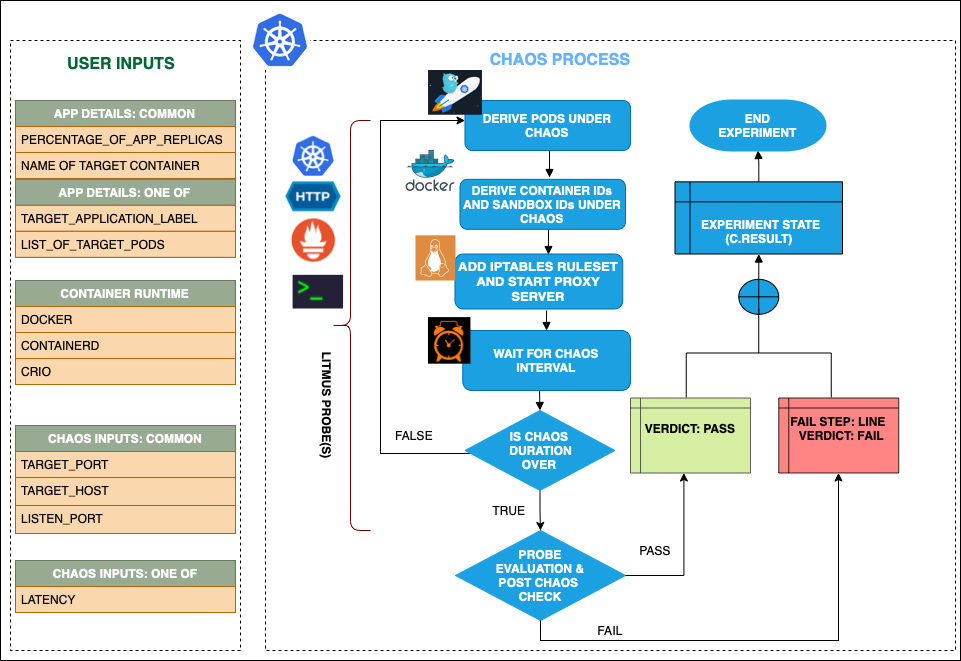
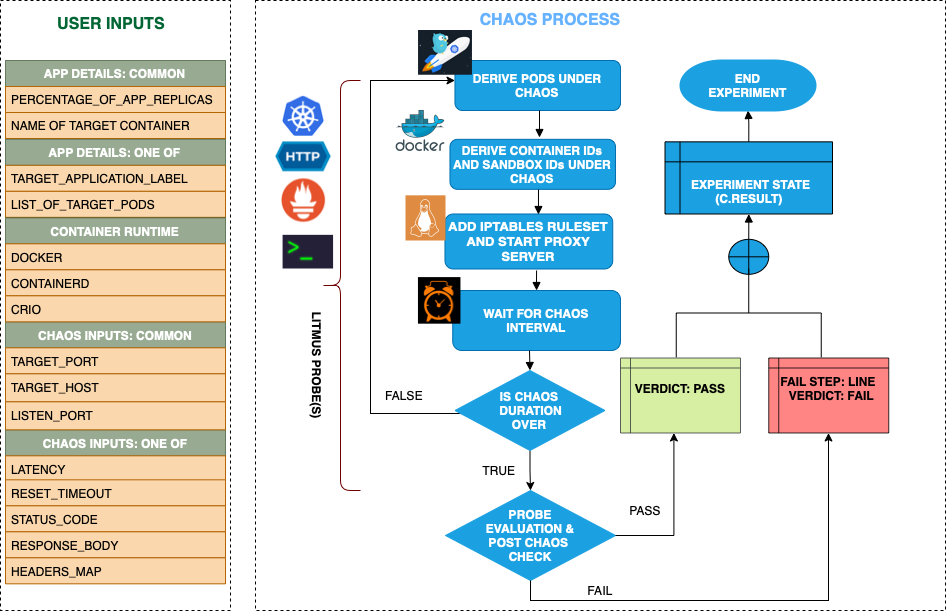
Chore [Docs]: Http Chaos Modify Header experiment docs (#3684)
* Added http modify header docs

* Updated http chaos diagram

* comment improvements

diff --git a/mkdocs/docs/experiments/categories/pods/pod-http-modify-header.md b/mkdocs/docs/experiments/categories/pods/pod-http-modify-header.md
@@ -1,10 +1,10 @@
 ## Introduction
 
-- It injects http response latency on the service whose port is provided as `TARGET_SERVICE_PORT` by starting proxy server and then redirecting the traffic through the proxy server.
-- It can test the application's resilience to lossy/flaky http responses.
+- It injects http modify header on the service whose port is provided as `TARGET_SERVICE_PORT` by starting proxy server and then redirecting the traffic through the proxy server.
+- It can cause modification of headers of requests and responses of the service. This can be used to test service resilience towards incorrect or incomplete headers.
 
-!!! tip "Scenario: Add latency to the HTTP request"    
-    ![Pod HTTP Latency](../../images/pod-http.png)
+!!! tip "Scenario: Modify Header of the HTTP request"    
+    ![Pod HTTP Modify Header](../../images/pod-http.png)
 
 ## Uses
 
@@ -16,7 +16,7 @@
 ??? info "Verify the prerequisites" 
     - Ensure that Kubernetes Version > 1.17
     - Ensure that the Litmus Chaos Operator is running by executing <code>kubectl get pods</code> in operator namespace (typically, <code>litmus</code>).If not, install from <a href="https://v1-docs.litmuschaos.io/docs/getstarted/#install-litmus">here</a>
-    - Ensure that the <code>pod-http-latency</code> experiment resource is available in the cluster by executing <code>kubectl get chaosexperiments</code> in the desired namespace. If not, install from <a href="https://hub.litmuschaos.io/api/chaos/master?file=charts/generic/pod-http-latency/experiment.yaml">here</a> 
+    - Ensure that the <code>pod-http-modify-header</code> experiment resource is available in the cluster by executing <code>kubectl get chaosexperiments</code> in the desired namespace. If not, install from <a href="https://hub.litmuschaos.io/api/chaos/master?file=charts/generic/pod-http-modify-header/experiment.yaml">here</a> 
     
 ## Default Validations
 
@@ -30,25 +30,25 @@
 
     ??? note "View the Minimal RBAC permissions"
 
-        [embedmd]:# (https://raw.githubusercontent.com/litmuschaos/chaos-charts/master/charts/generic/pod-http-latency/rbac.yaml yaml)
+        [embedmd]:# (https://raw.githubusercontent.com/litmuschaos/chaos-charts/master/charts/generic/pod-http-modify-header/rbac.yaml yaml)
         ```yaml
         ---
         apiVersion: v1
         kind: ServiceAccount
         metadata:
-          name: pod-http-latency-sa
+          name: pod-http-modify-header-sa
           namespace: default
           labels:
-            name: pod-http-latency-sa
+            name: pod-http-modify-header-sa
             app.kubernetes.io/part-of: litmus
         ---
         apiVersion: rbac.authorization.k8s.io/v1
         kind: Role
         metadata:
-          name: pod-http-latency-sa
+          name: pod-http-modify-header-sa
           namespace: default
           labels:
-            name: pod-http-latency-sa
+            name: pod-http-modify-header-sa
             app.kubernetes.io/part-of: litmus
         rules:
           # Create and monitor the experiment & helper pods
@@ -99,18 +99,18 @@
         apiVersion: rbac.authorization.k8s.io/v1
         kind: RoleBinding
         metadata:
-          name: pod-http-latency-sa
+          name: pod-http-modify-header-sa
           namespace: default
           labels:
-            name: pod-http-latency-sa
+            name: pod-http-modify-header-sa
             app.kubernetes.io/part-of: litmus
         roleRef:
           apiGroup: rbac.authorization.k8s.io
           kind: Role
-          name: pod-http-latency-sa
+          name: pod-http-modify-header-sa
         subjects:
         - kind: ServiceAccount
-          name: pod-http-latency-sa
+          name: pod-http-modify-header-sa
           namespace: default
         ```
         Use this sample RBAC manifest to create a chaosServiceAccount in the desired (app) namespace. This example consists of the minimum necessary role permissions to execute the experiment.
@@ -132,9 +132,15 @@
         <td>Defaults to port 80 </td>
       </tr>
       <tr>
-        <td> LATENCY  </td>
-        <td> Latency value in ms to be added to requests</td>
-        <td> Defaults to 2000 </td>
+        <td> HEADERS_MAP  </td>
+        <td> Map of headers to modify/add </td>
+        <td> Eg: {"X-Litmus-Test-Header": "X-Litmus-Test-Value"}. 
+            To remove a header, just set the value to ""; Eg: {"X-Litmus-Test-Header": ""}</td>
+      </tr>
+      <tr>
+        <td> HEADER_MODE  </td>
+        <td> Whether to modify response headers or request headers. Accepted values: request, response</td>
+        <td> Defaults to response </td>
       </tr>
     </table>
 
@@ -172,7 +178,7 @@
       </tr>
       <tr>
         <td> TARGET_PODS </td>
-        <td> Comma separated list of application pod name subjected to pod http latency chaos</td>
+        <td> Comma separated list of application pod name subjected to pod http modify header chaos</td>
         <td> If not provided, it will select target pods randomly based on provided appLabels</td>
       </tr>    
       <tr>
@@ -205,13 +211,13 @@ Refer the [common attributes](../common/common-tunables-for-all-experiments.md) 
 
 ### Target Service Port
 
-It defines the target port of the service that is being targetted. It can be tuned via `TARGET_SERVICE_PORT` ENV.
+It defines the port of the targeted service that is being targeted. It can be tuned via `TARGET_SERVICE_PORT` ENV.
 
 Use the following example to tune this:
 
-[embedmd]:# (pod-http-latency/target-service-port.yaml yaml)
+[embedmd]:# (pod-http-modify-header/target-service-port.yaml yaml)
 ```yaml
-## provide the target port of the service
+## provide the port of the targeted service
 apiVersion: litmuschaos.io/v1alpha1
 kind: ChaosEngine
 metadata:
@@ -229,19 +235,22 @@ spec:
     spec:
       components:
         env:
-        # provide the target port of the service
+        # provide the port of the targeted service
         - name: TARGET_SERVICE_PORT
           value: "80"
+        # map of headers to modify/add
+        - name: HEADERS_MAP
+          value: '{"X-Litmus-Test-Header": "X-Litmus-Test-Value"}'
 ```
 ### Proxy Port
 
-It defines the port on which the proxy server will listen for requests. It can be tuned via `PROXY_PORT` ENV.
+It defines the port on which the proxy server will listen for requests. It can be tuned via `PROXY_PORT` 
 
 Use the following example to tune this:
 
-[embedmd]:# (pod-http-latency/proxy-port.yaml yaml)
+[embedmd]:# (pod-http-modify-header/proxy-port.yaml yaml)
 ```yaml
-# provide the port for proxy to listen on
+## provide the port for proxy server
 apiVersion: litmuschaos.io/v1alpha1
 kind: ChaosEngine
 metadata:
@@ -259,23 +268,59 @@ spec:
     spec:
       components:
         env:
-        # provide the port for proxy to listen on
+        # provide the port for proxy server
         - name: PROXY_PORT
           value: '8080'
-        # provide the target port of the service
+        # provide the port of the targeted service
+        - name: TARGET_SERVICE_PORT
+          value: "80"
+        # map of headers to modify/add
+        - name: HEADERS_MAP
+          value: '{"X-Litmus-Test-Header": "X-Litmus-Test-Value"}'
+```
+
+### Headers Map
+
+It is the map of headers that are to be modified or added to the Http request/response. It can be tuned via `HEADERS_MAP` ENV.
+
+Use the following example to tune this:
+
+[embedmd]:# (pod-http-modify-header/headers-map.yaml yaml)
+```yaml
+## provide the headers as a map
+apiVersion: litmuschaos.io/v1alpha1
+kind: ChaosEngine
+metadata:
+  name: engine-nginx
+spec:
+  engineState: "active"
+  annotationCheck: "false"
+  appinfo:
+    appns: "default"
+    applabel: "app=nginx"
+    appkind: "deployment"
+  chaosServiceAccount: pod-http-chaos-sa
+  experiments:
+  - name: pod-http-chaos
+    spec:
+      components:
+        env:
+        # map of headers to modify/add; Eg: {"X-Litmus-Test-Header": "X-Litmus-Test-Value"}
+        # to remove a header, just set the value to ""; Eg: {"X-Litmus-Test-Header": ""}
+        - name: HEADERS_MAP
+          value: '{"X-Litmus-Test-Header": "X-Litmus-Test-Value"}'
+        # provide the port of the targeted service
         - name: TARGET_SERVICE_PORT
           value: "80"
 ```
 
-### Latency
-
-It defines the latency value to be added to the http request. It can be tuned via `LATENCY` ENV.
+### Header Mode
+It defined whether the request or the response header has to be modified. It can be tuned via `HEADER_MODE` ENV.
 
 Use the following example to tune this:
-
-[embedmd]:# (pod-http-latency/latency.yaml yaml)
+[embedmd]:# (pod-http-modify-header/header-mode.yaml yaml)
 ```yaml
-## provide the latency value
+## provide the mode of the header modification; request/response
 apiVersion: litmuschaos.io/v1alpha1
 kind: ChaosEngine
 metadata:
@@ -293,12 +338,15 @@ spec:
     spec:
       components:
         env:
-        # provide the latency value
-        - name: LATENCY
-          value: '2000'
-        # provide the target port of the service
+        # whether to modify response headers or request headers. Accepted values: request, response
+        - name: HEADER_MODE
+          value: 'response'
+        # provide the port of the targeted service
         - name: TARGET_SERVICE_PORT
           value: "80"
+        # map of headers to modify/add
+        - name: HEADERS_MAP
+          value: '{"X-Litmus-Test-Header": "X-Litmus-Test-Value"}'
 ```
 
 ### Network Interface
@@ -306,9 +354,9 @@ It defines the network interface to be used for the proxy. It can be tuned via `
 
 Use the following example to tune this:
 
-[embedmd]:# (pod-http-latency/network-interface.yaml yaml)
+[embedmd]:# (pod-http-modify-header/network-interface.yaml yaml)
 ```yaml
-## provide the network interface for proxy
+## provide the port for proxy server
 apiVersion: litmuschaos.io/v1alpha1
 kind: ChaosEngine
 metadata:
@@ -329,9 +377,12 @@ spec:
         # provide the network interface for proxy
         - name: NETWORK_INTERFACE
           value: "eth0"
-        # provide the target port of the service
+        # provide the port of the targeted service
         - name: TARGET_SERVICE_PORT
           value: '80'
+        # map of headers to modify/add
+        - name: HEADERS_MAP
+          value: '{"X-Litmus-Test-Header": "X-Litmus-Test-Value"}'
 ```
 
 ### Container Runtime Socket Path
@@ -343,7 +394,7 @@ It defines the `CONTAINER_RUNTIME` and `SOCKET_PATH` ENV to set the container ru
 
 Use the following example to tune this:
 
-[embedmd]:# (pod-http-latency/container-runtime-and-socket-path.yaml yaml)
+[embedmd]:# (pod-http-modify-header/container-runtime-and-socket-path.yaml yaml)
 ```yaml
 ## provide the container runtime and socket file path
 apiVersion: litmuschaos.io/v1alpha1
@@ -370,7 +421,10 @@ spec:
         # path of the socket file
         - name: SOCKET_PATH
           value: '/var/run/docker.sock'
-        # provide the target port of the service
+        # provide the port of the targeted service
         - name: TARGET_SERVICE_PORT
           value: "80"
+        # map of headers to modify/add
+        - name: HEADERS_MAP
+          value: '{"X-Litmus-Test-Header": "X-Litmus-Test-Value"}'
 ```

diff --git a/mkdocs/docs/experiments/categories/contents.md b/mkdocs/docs/experiments/categories/contents.md
@@ -101,6 +101,11 @@ Chaos actions that apply to generic Kubernetes resources are classified into thi
     <td>Injects HTTP latency into Application Pod</td>
    <td><a href="/litmus/experiments/categories/pods/pod-http-latency">pod-http-latency</a></td>
   </tr>
+  <tr>
+    <td>Pod HTTP Modify Header</td>
+    <td>Injects HTTP Modify Header into Application Pod</td>
+   <td><a href="/litmus/experiments/categories/pods/pod-http-modify-header">pod-http-modify-header</a></td>
+  </tr>
 </table>
 
 #### Node Chaos
